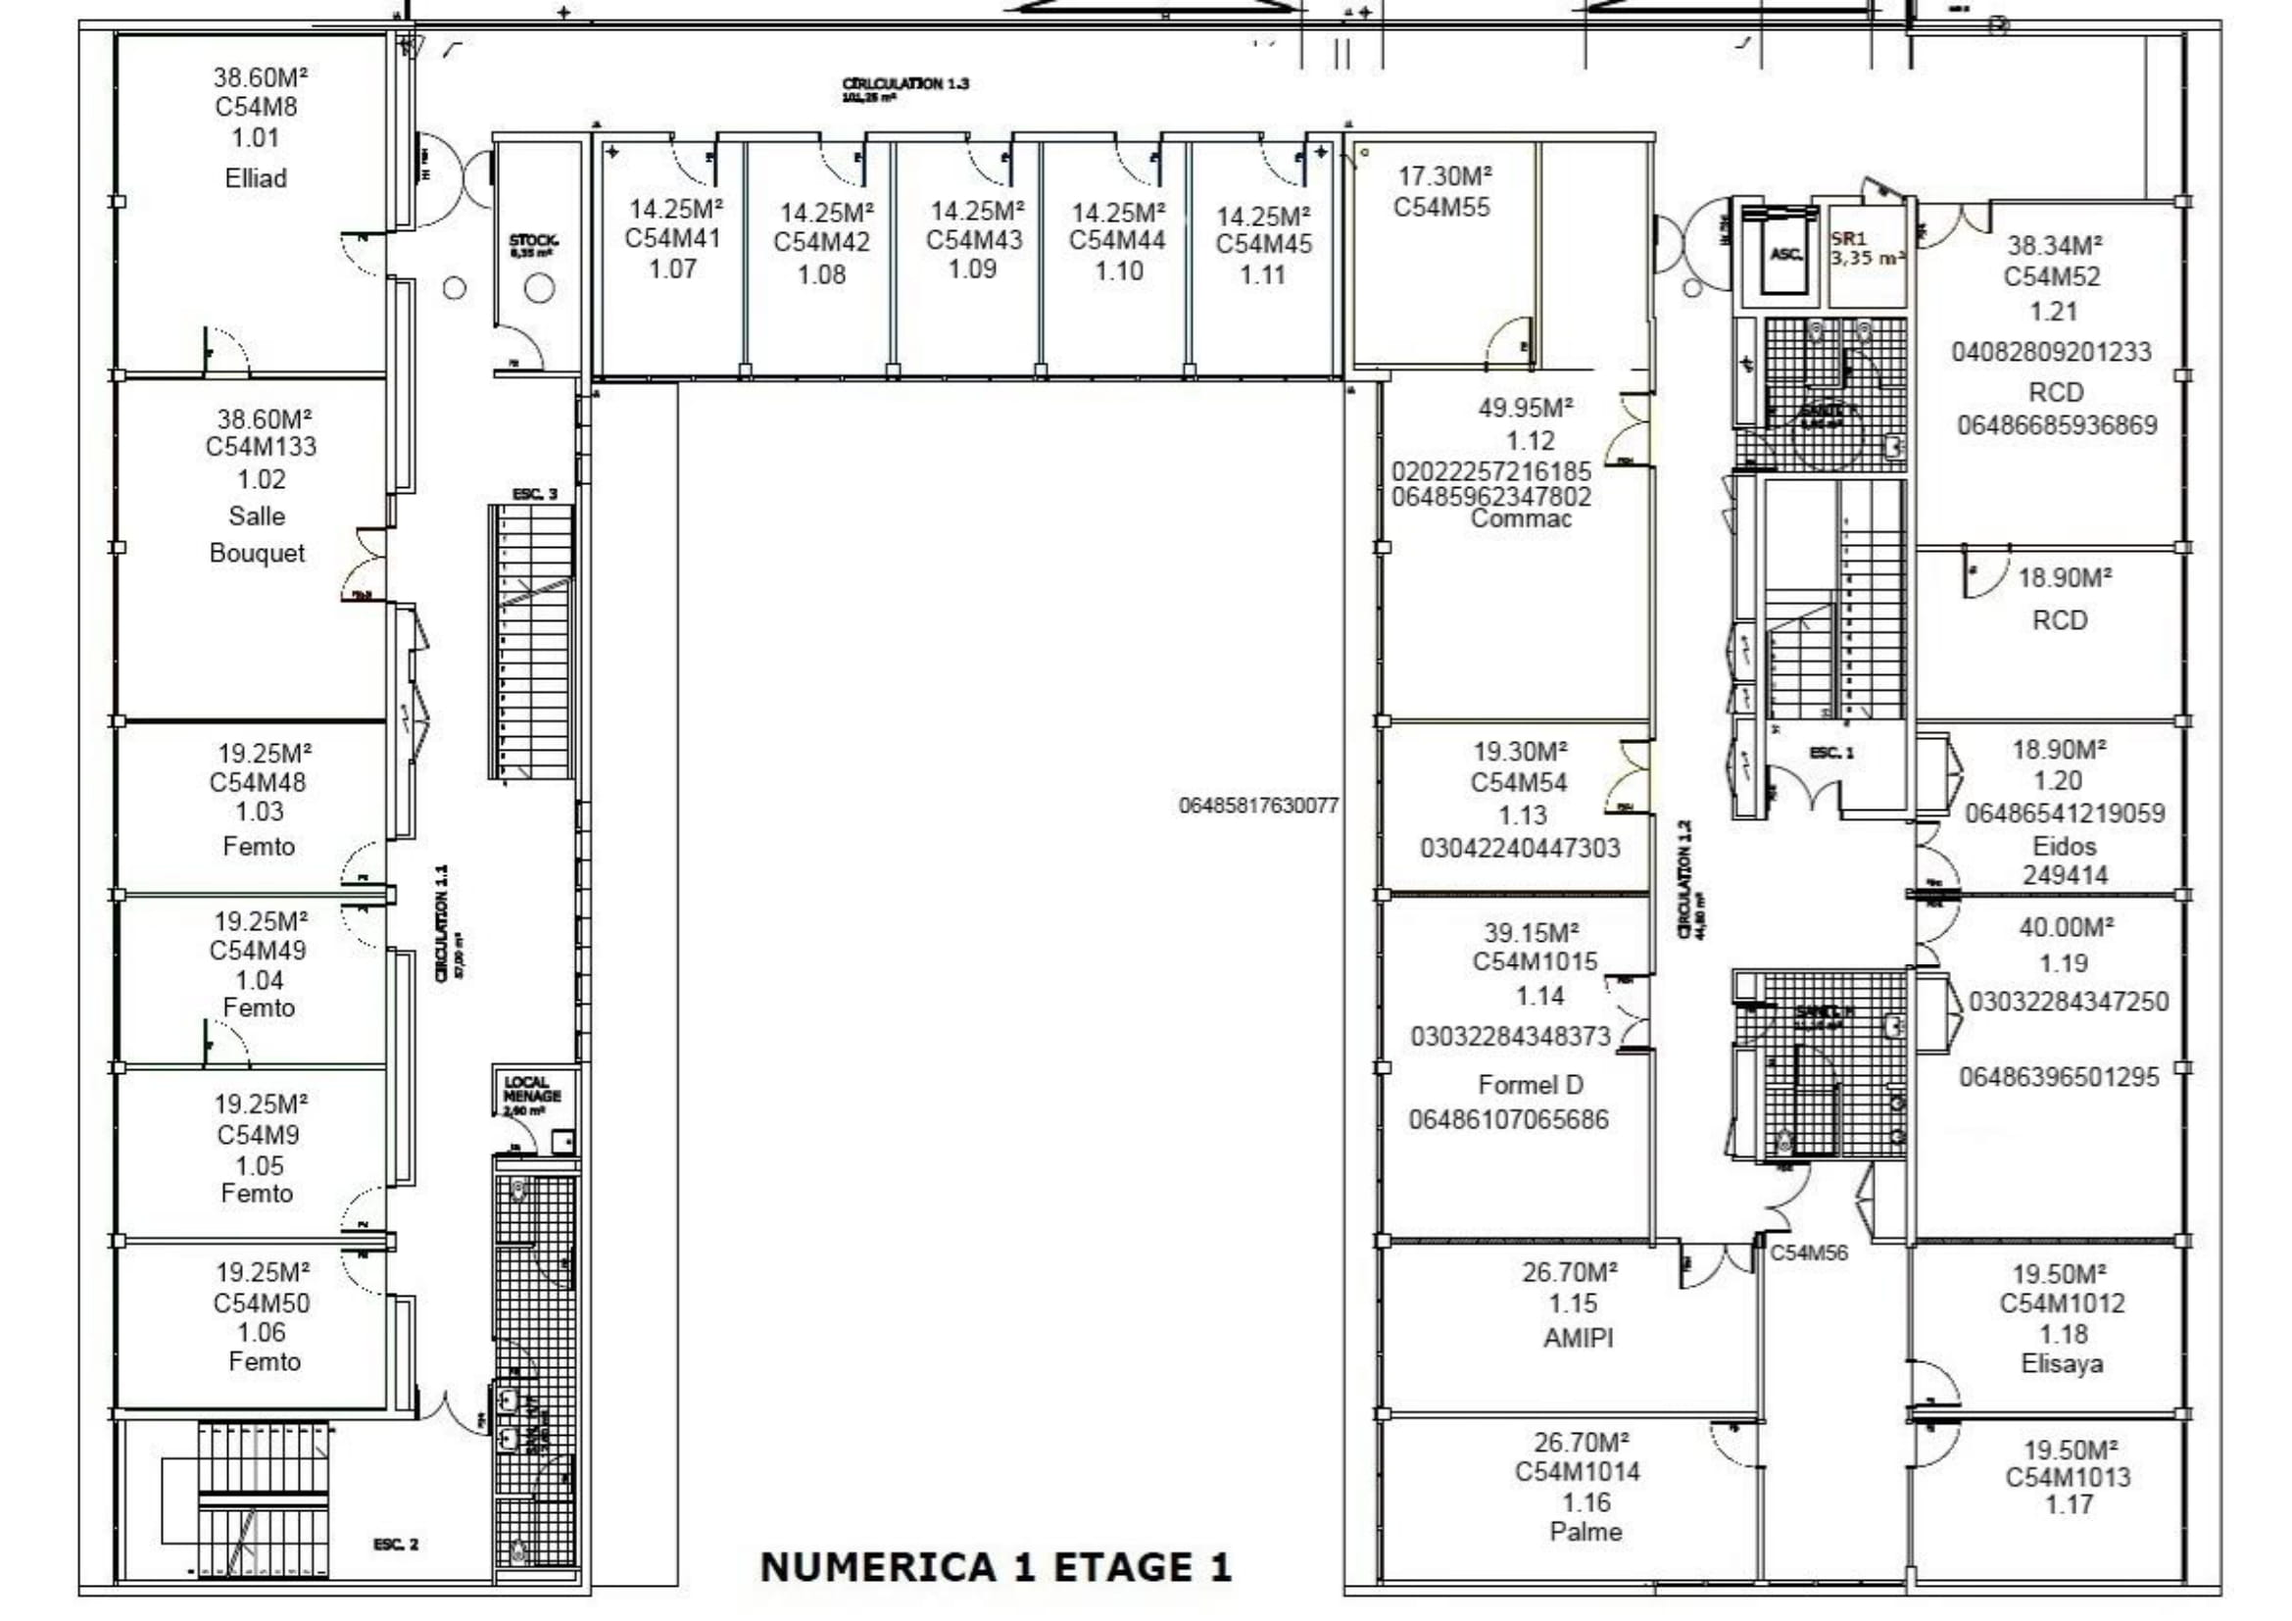
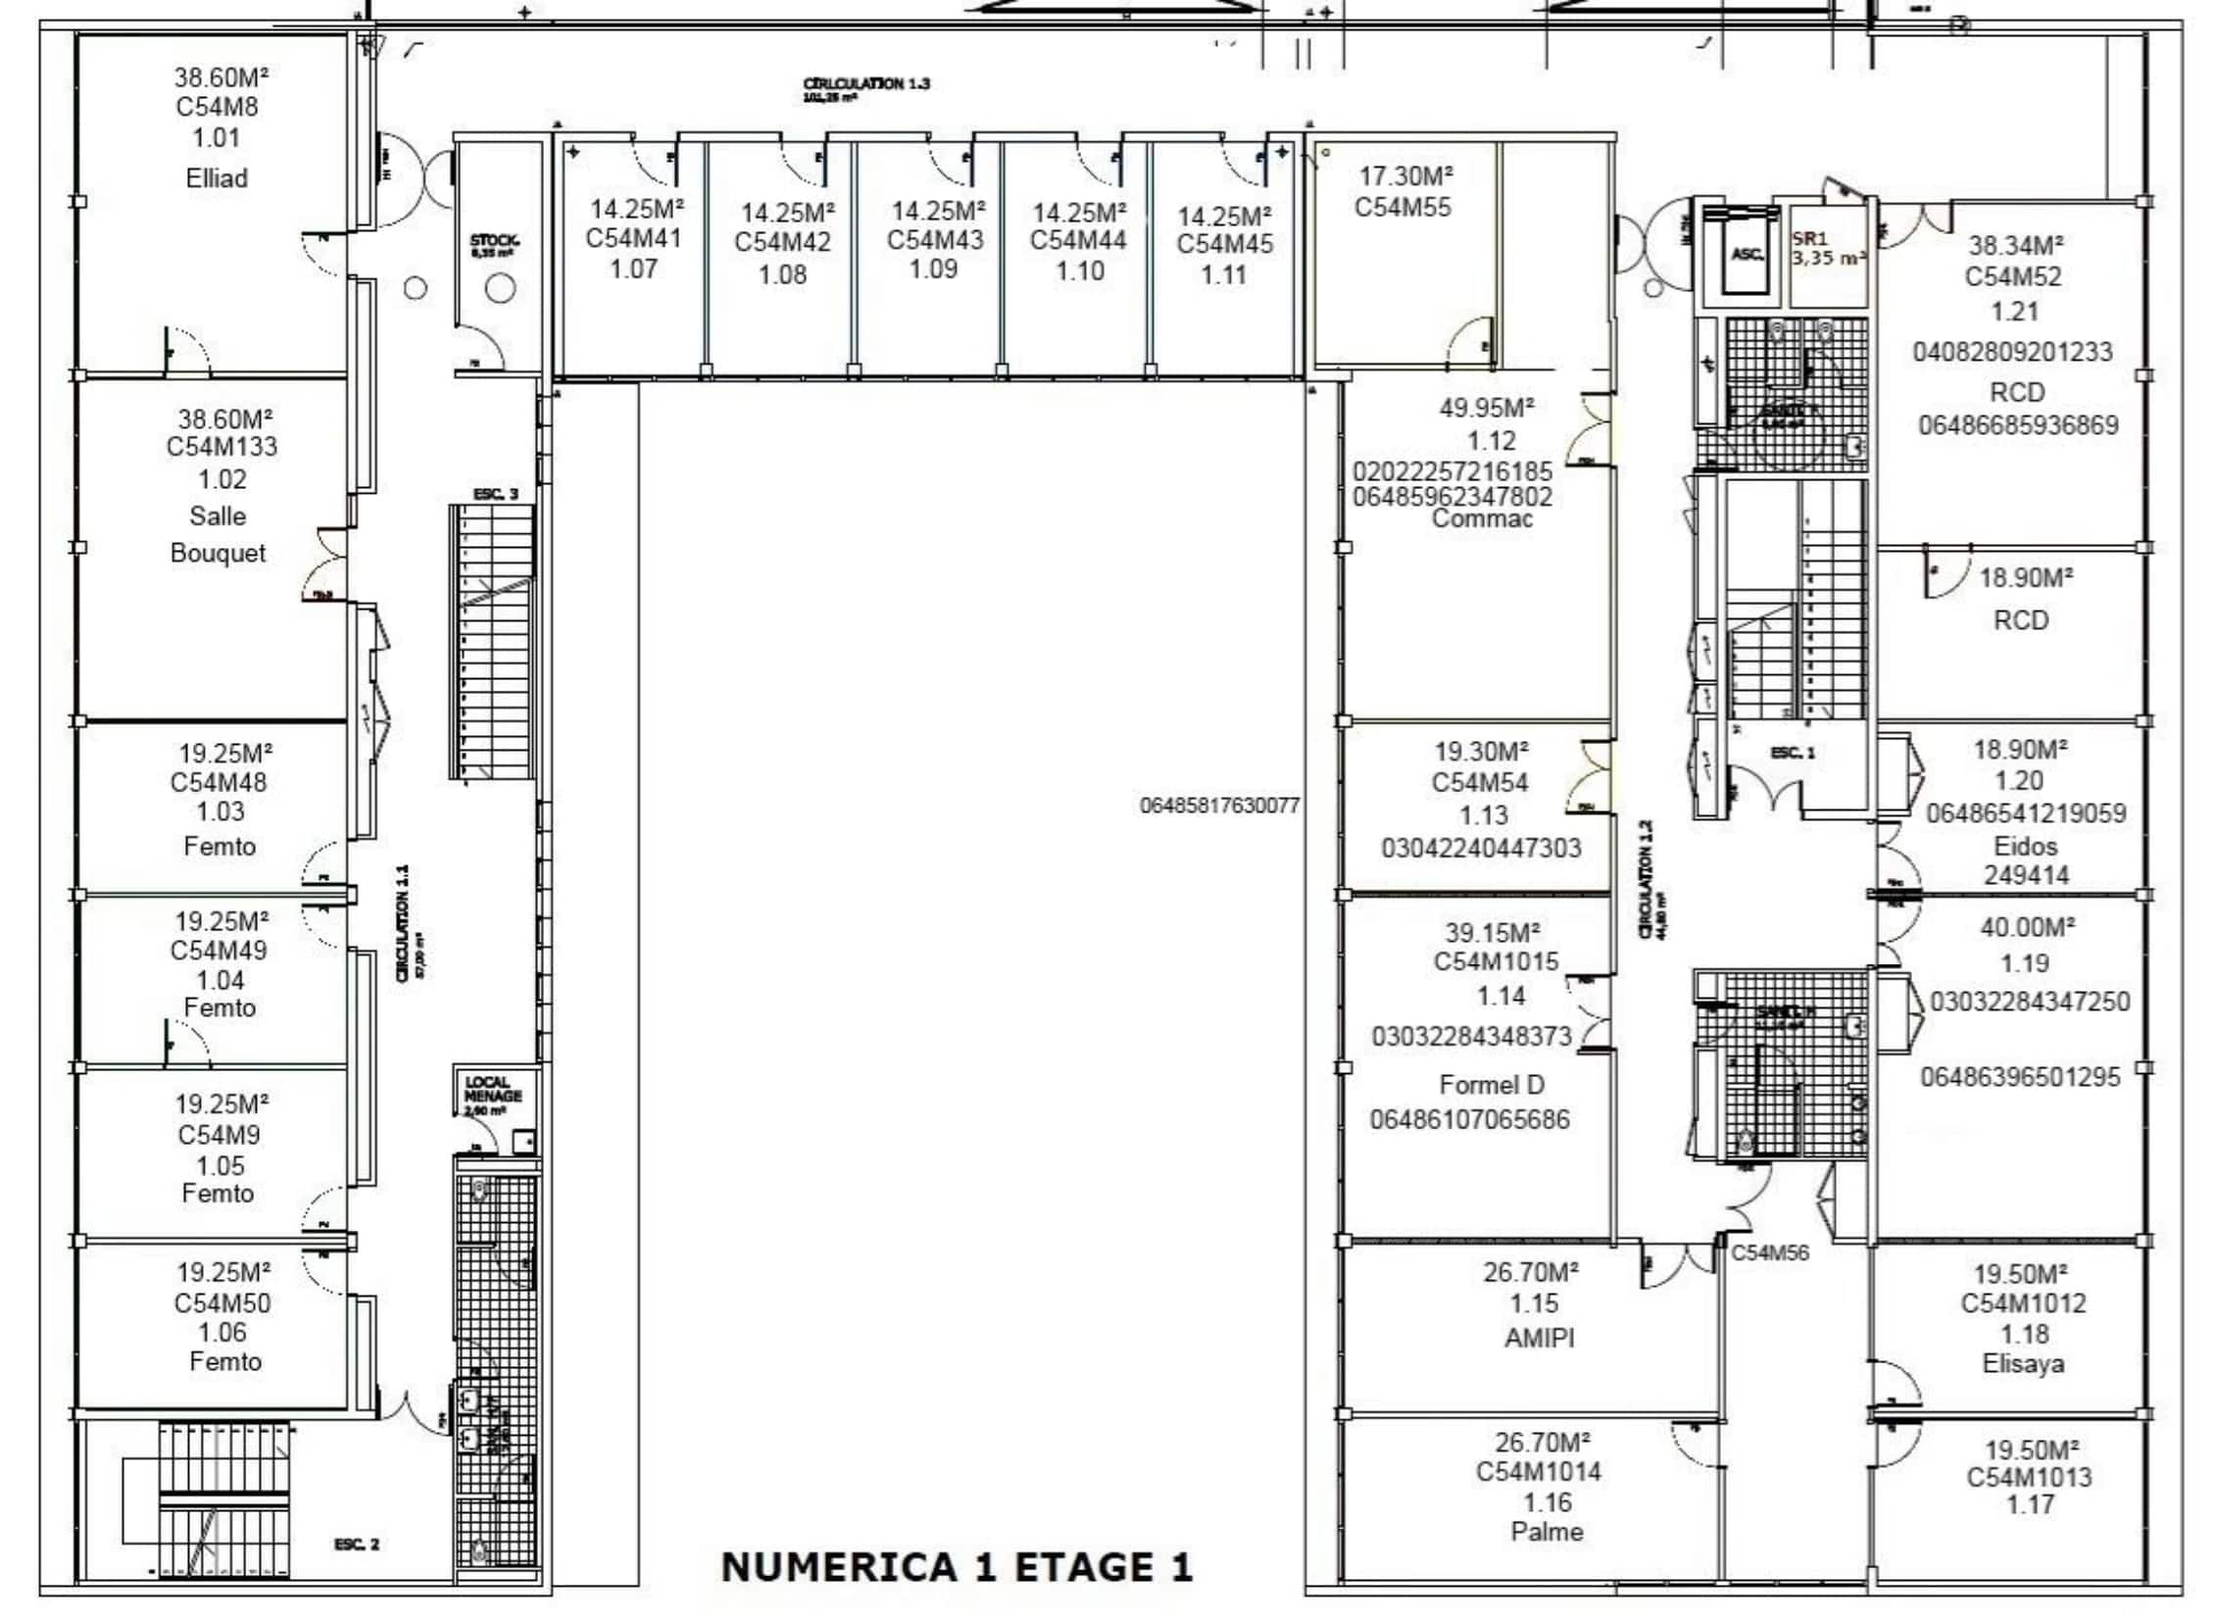
image de plan avec affichage adaptés

diff --git a/js/cell.js b/js/cell.js
@@ -33,5 +33,17 @@ function getVal(batiment, etage, list) {
    }
 }
 
-// valBatiment.onchange = dispCell(batiment, etage, id);
-// valEtage.onchange = dispCell(batiment, etage, id);
+// Fonction permettant d'afficher ou masquer le plan sur la page étage
+function dispPlan() {
+   var button = document.getElementById('plan_button');
+   var plan = document.getElementById('plan');
+
+   if (plan.style.display == "none") {
+      plan.style.display = "block";
+      button.innerHTML = 'Masquer le plan';
+   }
+   else {
+      plan.style.display = "none";
+      button.innerHTML = 'Afficher le plan';
+   }
+}

diff --git a/css/style.css b/css/style.css
@@ -842,12 +842,18 @@ margin: 0;
 }
 
 #plan {
-   width: 100%;
+   margin-left: auto;
+   margin-right: auto;
+   width: 90%;
+   padding: 40px 20px 40px 20px;
+   border: 1px solid var(--gray-150);
    display: none;
+   margin-bottom: 50px;
+   border-radius: 5px;
 }
 
 #plan_button {
-   width: 130px;
+   width: 140px;
    padding: 7px;
    border-radius: 5px;
    margin-bottom: 20px;

diff --git a/js/list.js b/js/list.js
@@ -1,3 +1,5 @@
+// Fonctions permettant d'affiche la liste déroulant de manière dynamique
+
 function dispList(i) {
    i = parseInt(i);
    id = 'structure' + i;

diff --git a/php/pages/etage.php b/php/pages/etage.php
@@ -49,7 +49,7 @@ if($_SESSION['email'] != "") {
             <!-- Affichage du nom de la structure -->
             <h1 class="h1-etage"><b> <?php echo($nom_structure); ?> </b></h1>
             <section class="id_structure">
-               <button id="plan_button">Afficher le plan</button>
+               <button id="plan_button" onclick="dispPlan()">Afficher le plan</button>
                <img src="<?php echo($image_structure); ?>" alt="" id="plan"> 
                <div class="img_section">
                   
@@ -71,7 +71,7 @@ if($_SESSION['email'] != "") {
 
             // Appel du fichier permettant d'afficher la liste filtrable des cellules
             include('disp_cell.php');
-            
+
             ?>
          </div>
       </div>

diff --git a/php/pages/batiment.php b/php/pages/batiment.php
@@ -87,7 +87,10 @@ if($_SESSION['email'] != "") {
                async>
             </script>
             <?php
+            
+            // Appel du fichier permettant d'afficher la liste filtrable des cellules
             include('disp_cell.php');
+            
             ?>
          </div>
       </div>

diff --git a/php/pages/header/header.php b/php/pages/header/header.php
@@ -36,6 +36,7 @@
    <!-- Integration du JS -->
    <script type ="text/javascript" src="../../js/list.js"></script>
    <script type ="text/javascript" src ="../../js/map.js"></script>
+   <script type ="text/javascript" src ="../../js/cell.js"></script>
 
    <title>Numerica GDC</title>
 </head>
